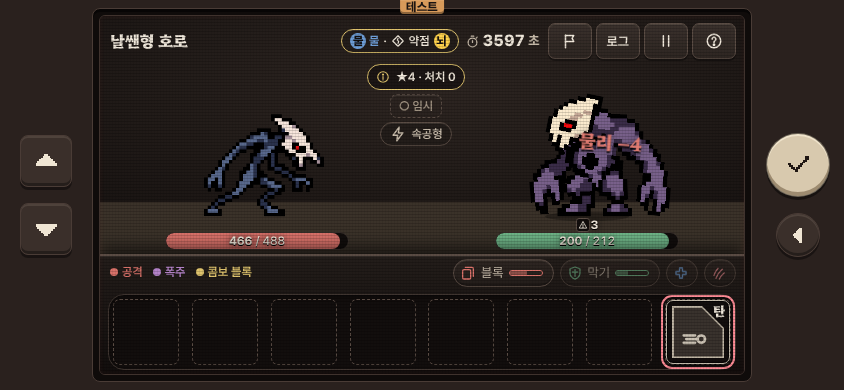
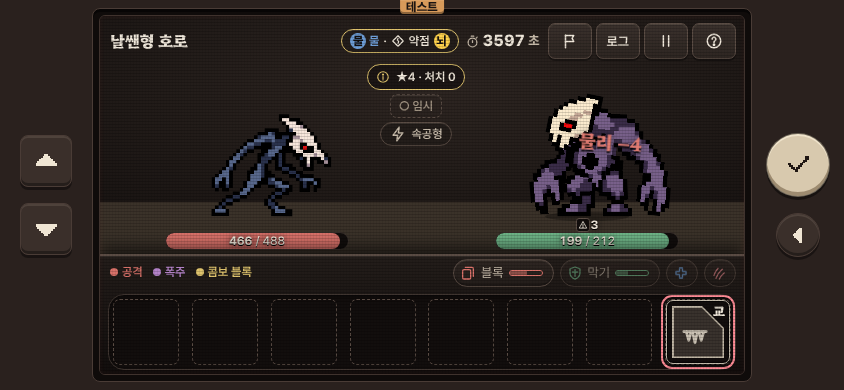
C.545 몸 이름 표 = GDD 6-7 v6.214 (덩치 = 호로, 날쌘형 임시), GDD v6.215
Claude-Session: https://claude.ai/code/session_01YVaigHzqbcLa5vuScdy85Q

diff --git a/tests/c545.test.ts b/tests/c545.test.ts
@@ -1,4 +1,4 @@
-// C.545 일반 적 이름 = 그림 모델(몸) 이름 + 호로, 도감에서만 '<몸>형 호로(속성 속성)' (GDD 6-7 v6.212 → v6.213,
+// C.545 일반 적 이름 = 그림 모델(몸) 이름 + 호로(덩치 = 그냥 호로), 도감에서만 '<이름>(속성 속성)' (GDD 6-7 v6.212·v6.214 → v6.215,
 // 사용자 2026-11-27 "속공, 기본 이런건 빼;; 그 모델에 따라서, 거미형 호로, 부유형 호로 이런식으로 이름붙여. 적들.")
 import { readFileSync } from 'node:fs';
 import { describe, expect, it } from 'vitest';
@@ -15,6 +15,8 @@ const read = (p: string) => readFileSync(new URL(`../${p}`, import.meta.url), 'u
 const normals = ENEMIES.filter((e) => e.class === 'normal' && !e.testOnly);
 const PATTERN_WORDS = /기본|속공|단단/;
 const bodyName = (id: string) => ENEMY_BODIES.names[normalEnemyBody(getEnemy(id)) ?? ''];
+/** 기대 이름: 몸 이름 + 호로, 몸 이름이 비면(덩치) 그냥 호로 */
+const expectName = (id: string) => (bodyName(id) ? `${bodyName(id)} 호로` : '호로');
 
 /** 그림 쪽에서 본 몸: 종이인형 외형 id 앞머리(brute-blue → brute), 종이인형이 아니면 한 장 그림 = lean */
 function artBody(id: string): string | null {
@@ -24,13 +26,13 @@ function artBody(id: string): string | null {
 }
 
 describe('일반 적 24종 이름 = 몸 이름 + 호로 (그림과 같은 출처)', () => {
-  it('24종(속성 8 × 패턴 3), 모든 종족에서 이름 = \'<몸>형 호로\', 패턴 글자 없음', () => {
+  it('24종(속성 8 × 패턴 3), 모든 종족에서 이름 = 몸 이름 + 호로(덩치 = 호로), 패턴 글자 없음', () => {
     expect(normals).toHaveLength(24);
     for (const el of ELEMENT_IDS) for (const p of ['basic', 'swift', 'sturdy']) expect(normals.some((e) => e.id === `${el}-${p}`), `${el}-${p}`).toBe(true);
     for (const f of FACTIONS) for (const e of normals) {
       const n = pickFaction(e.name, f.id);
-      expect(n, `${f.id} ${e.id}`).toBe(`${bodyName(e.id)} 호로`);
-      expect(n).toMatch(/^\S+형 호로$/);
+      expect(n, `${f.id} ${e.id}`).toBe(expectName(e.id));
+      expect(n).toMatch(/^(\S+형 )?호로$/);
       expect(n).not.toMatch(PATTERN_WORDS);
     }
   });
@@ -46,11 +48,13 @@ describe('일반 적 24종 이름 = 몸 이름 + 호로 (그림과 같은 출처
     expect(read('src/data/art/manifest.ts')).toMatch(/import enemyBodies from '\.\.\/enemies\/bodies\.json'/);
   });
 
-  it('지금 표: 기본·단단 = 덩치형 호로, 속공 = 날쌘형 호로 · 몸 이름은 모두 \'~형\'', () => {
-    expect(getEnemy('water-basic').name['*']).toBe('덩치형 호로');
-    expect(getEnemy('water-sturdy').name['*']).toBe('덩치형 호로');
+  it('지금 표(6-7 v6.214): 기본·단단 = 덩치 → 호로, 속공 = 날쌘형 호로 · 몸 이름 = 6-7 표 · 앞말은 빈 글자이거나 \'~형\'', () => {
+    expect(getEnemy('water-basic').name['*']).toBe('호로');
+    expect(getEnemy('water-sturdy').name['*']).toBe('호로');
     expect(getEnemy('water-swift').name['*']).toBe('날쌘형 호로');
-    for (const n of Object.values(ENEMY_BODIES.names)) expect(n).toMatch(/형$/);
+    expect(ENEMY_BODIES.names).toMatchObject({ brute: '', onearm: '괴력형', speed: '속공형', spiky: '강습형', serpent: '뱀형', beast: '짐승형', spider: '거미형', wraith: '부유형' });
+    for (const n of Object.values(ENEMY_BODIES.names)) expect(n).toMatch(/^$|형$/);
+    expect(ENEMY_BODIES.provisional).toEqual(['brute', 'lean']);
   });
 
   it('강적·보스·훈련 인형·테스트 적 이름은 그대로', () => {
@@ -61,20 +65,20 @@ describe('일반 적 24종 이름 = 몸 이름 + 호로 (그림과 같은 출처
   });
 });
 
-describe('도감 표기 = <몸>형 호로(속성 속성)', () => {
+describe('도감 표기 = <이름>(속성 속성)', () => {
   it('규칙 데이터에 패턴 자리 없음', () => {
     expect(ENEMY_DEX_NAMES.normal.format).toBe('{name}({element} 속성)');
     expect(read('src/data/enemies/dexNames.json')).not.toMatch(/patterns|\{pattern\}/);
   });
 
-  it('24종 모두 \'<몸>형 호로(<속성 표시 이름> 속성)\', 패턴 글자 없음 — 쿄는 허무', () => {
+  it('24종 모두 \'<이름>(<속성 표시 이름> 속성)\', 패턴 글자 없음 — 쿄는 허무', () => {
     for (const f of FACTIONS) for (const e of normals) {
       const d = enemyDexName(e, f.id);
-      expect(d, e.id).toBe(`${bodyName(e.id)} 호로(${elementName(e.element, f.id)} 속성)`);
+      expect(d, e.id).toBe(`${expectName(e.id)}(${elementName(e.element, f.id)} 속성)`);
       expect(d).not.toMatch(PATTERN_WORDS);
     }
     expect(enemyDexName(getEnemy('water-swift'), 'hollow')).toBe('날쌘형 호로(물 속성)');
-    expect(enemyDexName(getEnemy('kyo-basic'), 'shinigami')).toBe(`덩치형 호로(${elementName('kyo', 'shinigami')} 속성)`);
+    expect(enemyDexName(getEnemy('kyo-basic'), 'shinigami')).toBe(`호로(${elementName('kyo', 'shinigami')} 속성)`);
   });
 
   it('강적·보스 도감 이름 = 이름 그대로', () => {
@@ -84,7 +88,7 @@ describe('도감 표기 = <몸>형 호로(속성 속성)', () => {
   it('적 고르기 목록(수련장·테스트 모드) = 도감 표기, 훈련 인형·강적은 그대로', () => {
     const f = FACTIONS[0]!;
     const dex = { 'water-basic': { seen: 1, kills: 1, absorbs: { both: 0, trait: 0, stat: 0, none: 0 }, where: null, firstAt: 1 }, 'water-swift': { seen: 1, kills: 0, absorbs: { both: 0, trait: 0, stat: 0, none: 0 }, where: null, firstAt: 1 } };
-    expect(practiceArenaSource(f, dex, 3, false).foes.map((x) => x.label)).toEqual(['훈련 인형', '덩치형 호로(물 속성)', '날쌘형 호로(물 속성)']);
+    expect(practiceArenaSource(f, dex, 3, false).foes.map((x) => x.label)).toEqual(['훈련 인형', '호로(물 속성)', '날쌘형 호로(물 속성)']);
     const labels = testArenaSource(f, { foeId: '', star: 1, streak: 0, floor: null, hpAttacks: null, attackAttacks: null, attackSeconds: null, attacks: true, immortal: false }).foes.map((x) => x.label);
     expect(labels).toContain('날쌘형 호로(불 속성)');
     expect(labels).toContain('만 명을 먹은 자');

diff --git a/src/data/enemies/index.ts b/src/data/enemies/index.ts
@@ -75,9 +75,11 @@ export function parseEnemy(r: unknown): EnemyDef {
   return r as EnemyDef;
 }
 
-/** 일반 적 몸(모델) 표 (GDD 6-7 v6.212): 몸 id → 표시 이름('~형'), 일반 적 패턴 → 몸. 그림 목록(art/manifest.ts)도 이 표를 읽는다 — 이름과 그림이 한 곳에서 나온다 */
+/** 일반 적 몸(모델) 표 (GDD 6-7 v6.212): 몸 id → 이름 앞말(6-7 표, 빈 글자 = 앞말 없음), 일반 적 패턴 → 몸. 그림 목록(art/manifest.ts)도 이 표를 읽는다 — 이름과 그림이 한 곳에서 나온다 */
 export interface EnemyBodyTable {
   names: Record<string, string>;
+  /** 임시 이름인 몸 id (6-7 임시) */
+  provisional?: string[];
   normal: { nameFormat: string; byPattern: Partial<Record<EnemyPatternKind, string>> };
 }
 export const ENEMY_BODIES = bodiesRaw as EnemyBodyTable;
@@ -94,13 +96,14 @@ export function normalEnemyBody(def: Pick<EnemyDef, 'id' | 'class' | 'testOnly' 
   return ENEMY_BODIES.normal.byPattern[def.pattern?.kind ?? 'basic'] ?? null;
 }
 
-/** 일반 적 이름 = 몸 이름 + 적 테이블 이름(호로) — '덩치형 호로'. 전투·결과·로그·흡수·도감 모두 이 이름 */
+/** 일반 적 이름 = 몸 이름 + 적 테이블 이름(호로) — '날쌘형 호로', 덩치는 앞말 없이 '호로'. 전투·결과·로그·흡수·도감 모두 이 이름 */
 function withBodyName(def: EnemyDef): EnemyDef {
   if (!followsBodyTable(def)) return def;
   const body = normalEnemyBody(def);
   const bodyName = body ? ENEMY_BODIES.names[body] : undefined;
-  if (!bodyName) throw new Error(`적 데이터 오류 (${def.id}): 몸 표(bodies.json)에 몸 이름 없음`);
-  const name = Object.fromEntries(Object.entries(def.name).map(([k, v]) => [k, ENEMY_BODIES.normal.nameFormat.replace('{body}', bodyName).replace('{name}', String(v))]));
+  if (bodyName === undefined) throw new Error(`적 데이터 오류 (${def.id}): 몸 표(bodies.json)에 몸 이름 없음`);
+  // 몸 이름이 빈 글자(덩치 = 기본 모델, 6-7 v6.214)면 앞말 없이 적 테이블 이름 그대로
+  const name = Object.fromEntries(Object.entries(def.name).map(([k, v]) => [k, bodyName ? ENEMY_BODIES.normal.nameFormat.replace('{body}', bodyName).replace('{name}', String(v)) : String(v)]));
   return { ...def, name: name as EnemyDef['name'] };
 }
 
@@ -118,8 +121,8 @@ export function getEnemy(id: string): EnemyDef {
 /** 적 도감 표기 규칙 (GDD 6-7 v6.212): 일반 적만 '이름(속성 속성)' — 데이터 dexNames.json */
 export const ENEMY_DEX_NAMES = dexNamesRaw as { normal: { format: string } };
 
-/** 도감에 쓰는 이름 (GDD 6-7 v6.212): 일반 적 = '덩치형 호로(물 속성)' 처럼 속성을 붙이고(패턴 이름은 안 씀), 강적·보스·테스트 적·훈련 인형은 이름 그대로.
- *  도감 밖(전투·결과·로그·흡수)은 이 함수를 쓰지 않고 이름 그대로('덩치형 호로') — 적을 고르는 목록(수련장·테스트 모드 적 설정 창)은 도감 표기 */
+/** 도감에 쓰는 이름 (GDD 6-7 v6.212): 일반 적 = '날쌘형 호로(물 속성)'·'호로(물 속성)' 처럼 속성을 붙이고(패턴 이름은 안 씀), 강적·보스·테스트 적·훈련 인형은 이름 그대로.
+ *  도감 밖(전투·결과·로그·흡수)은 이 함수를 쓰지 않고 이름 그대로('날쌘형 호로'·'호로') — 적을 고르는 목록(수련장·테스트 모드 적 설정 창)은 도감 표기 */
 export function enemyDexName(def: Pick<EnemyDef, 'id' | 'name' | 'element' | 'class' | 'testOnly'>, factionId: string): string {
   const name = pickFaction(def.name, factionId);
   if (!followsBodyTable(def)) return name;

diff --git a/src/ui/enemyDexView.ts b/src/ui/enemyDexView.ts
@@ -1,5 +1,5 @@
 // 적 도감 화면 (GDD 200장, C.330 → 220장 1·2): 책장 묶음(진화체 도감·칭호 도감 ▾)의 세 번째 도감. 틀은 진화체 도감과 같다 — 바둑판 카드(그림·이름·속성) + 누르면 상세 창, 위 '발견 n / 전체'·정렬 버튼.
-// 카드 = 일반(속성 8 × 패턴 3 — 이름은 그림 몸 이름 + 호로(enemies/bodies.json), 도감에서만 enemyDexName 으로 '덩치형 호로(물 속성)', GDD 6-7 v6.212) · 강적 24 · 보스 3(탑 층 보스도 같은 보스라 같은 칸). 만나기 전 = 그림 실루엣 + '???'(속성·등급 숨김),
+// 카드 = 일반(속성 8 × 패턴 3 — 이름은 그림 몸 이름 + 호로(enemies/bodies.json), 도감에서만 enemyDexName 으로 '호로(물 속성)'·'날쌘형 호로(물 속성)', GDD 6-7 v6.212·v6.214) · 강적 24 · 보스 3(탑 층 보스도 같은 보스라 같은 칸). 만나기 전 = 그림 실루엣 + '???'(속성·등급 숨김),
 // 만난 뒤 = 그림 · 이름 · 속성 · 강적·보스 등급(198장 grade — 여기서만 보인다) · 잡은 수 'n마리' · 흡수 종류별 횟수(200장 9, 0도 자리 고정) · 처음 만난 곳 한 줄. 처음 만난 카드는 '새' 점 하나(알림 없음), 상세를 보면 지운다.
 // 종족 분기 없음: 이름·속성 이름·사냥터/탑 이름은 종족 설정·데이터에서 읽는다. 기기 ▲▼ = 카드 이동, ✓ = 상세 창, ◀ = 창 닫기(공용 창 레이어).
 import { ELEMENT_IDS } from '../data/elements';

diff --git a/tests/enemies.test.ts b/tests/enemies.test.ts
@@ -60,10 +60,10 @@ describe('적 데이터 (속성 8종 × 일반 3종 · 강적 3종, C.47)', () =
     expect(new Set(ENEMIES.map((e) => e.id)).size).toBe(ENEMIES.length);
   });
 
-  it('이름 (GDD 198장 → 6-7 v6.212): 일반 = \'<몸>형 호로\'(몸 표 bodies.json, 6-7 v6.212 — c545), 강적 = 24종 모두 고유 + 고정 등급, 모든 종족에서 읽힌다', () => {
+  it('이름 (GDD 198장 → 6-7 v6.212): 일반 = \'<몸>형 호로\'(몸 표 bodies.json, 6-7 v6.214, 덩치 = 호로 — c545), 강적 = 24종 모두 고유 + 고정 등급, 모든 종족에서 읽힌다', () => {
     for (const e of pool) expect(typeof e.name['*'], e.id).toBe('string');
     for (const e of pool.filter((x) => x.class === 'normal')) {
-      expect(e.name['*'], e.id).toBe(`${ENEMY_BODIES.names[normalEnemyBody(e) ?? '']} 호로`);
+      expect(e.name['*'], e.id).toBe(ENEMY_BODIES.names[normalEnemyBody(e) ?? ''] ? `${ENEMY_BODIES.names[normalEnemyBody(e) ?? '']} 호로` : '호로');
       expect(e.grade, e.id).toBeUndefined();
     }
     const elites = pool.filter((x) => x.class === 'elite');

diff --git a/docs/dev-log.md b/docs/dev-log.md
@@ -1338,14 +1338,14 @@ BALANCE 168 → **169**(소로 수치, 전부 provisional). 세이브 형식 그
 - 캡처 `docs/captures/c544/`(1배 3장, `scripts/c544-proof.cjs`, facts.json): 01 PC 전투(물 속성·기본 적) 이름 '호로' · 02 PC 적 도감 호로(노멀/물/불/허무 속성·기본/속공/단단) · 03 폰 적 도감.
 - 검증: typecheck · 관련 테스트(enemies·c330·c332·c363 등) · 새 테스트 · typecheck · npm test 4442 · balance:check 회귀 가드 통과(수치 안 바뀜) · build.
 
-## C.545 — 일반 적 이름 = 그림 몸 이름 + 호로, 도감 '<몸>형 호로(속성 속성)' (GDD 6-7 v6.212 → v6.213, S-23, 코딩353)
-세이브 형식·BALANCE 그대로(세이브엔 적 id 만). GDD v6.213(첫 줄 + 20절 한 줄). C.544('호로' + 도감 패턴 글자)를 고침.
-- **이유**: 사용자 2026-11-27(C.544 본 뒤) "속공, 기본 이런건 빼;; 그 모델에 따라서, 거미형 호로, 부유형 호로 이런식으로 이름붙여. 적들." → 마스터AT 6-7 v6.212.
-- **몸 표 한 곳**: 새 `src/data/enemies/bodies.json` = 몸 id → 이름(15절 '~형': 덩치형·날쌘형·뱀형·짐승형·외팔형·거미형·가시형·속도형·부유형·길리안형) + 일반 적 패턴 → 몸(basic·sturdy = brute 덩치, swift = lean 날쌘형 한 장 그림) + 이름 형식 `{body} {name}`. `enemies/index.ts` 가 읽을 때 일반 적 24종 이름을 '덩치형 호로'·'날쌘형 호로'로 만든다(enemies.json 이름은 '호로' 그대로) → 전투·결과·로그·흡수·도감 모두 같은 이름.
+## C.545 — 일반 적 이름 = 그림 몸 이름 + 호로(덩치 = 호로), 도감 '<이름>(속성 속성)' (GDD 6-7 v6.212·v6.214 → v6.215, S-23, 코딩353)
+세이브 형식·BALANCE 그대로(세이브엔 적 id 만). GDD v6.215(첫 줄 + 20절 한 줄). C.544('호로' + 도감 패턴 글자)를 고침.
+- **이유**: 사용자 2026-11-27(C.544 본 뒤) "속공, 기본 이런건 빼;; 그 모델에 따라서, 거미형 호로, 부유형 호로 이런식으로 이름붙여. 적들." · "도마뱀->속공형, 외팔이->괴력형, 가시->강습형으로 이름 바꾸삼" → 마스터AT 6-7 v6.212·v6.214.
+- **몸 표 한 곳**: 새 `src/data/enemies/bodies.json` = 몸 id → 이름 앞말(6-7 표: brute 덩치 = 빈 글자(그냥 '호로', 임시) · onearm 괴력형 · speed 속공형 · spiky 강습형 · serpent 뱀형 · beast 짐승형 · spider 거미형 · wraith 부유형 · lean 날쌘형(임시)) + 일반 적 패턴 → 몸(basic·sturdy = brute, swift = lean) + 형식 `{body} {name}`. `enemies/index.ts` 가 읽을 때 일반 적 24종 이름을 만든다(enemies.json 이름은 '호로' 그대로) → 전투·결과·로그·흡수·도감 모두 같은 이름.
 - **그림과 같은 출처**: `art/manifest.ts` `BRUTE_ENEMY_KINDS`(덩치 종이인형을 입는 적 종류)를 몸 표에서 몸 brute 인 일반 패턴 + 강적 3 으로 만든다. 표의 몸을 바꾸면 이름과 그림이 같이 바뀐다(brute ↔ lean). 시험이 24종 모두 '표의 몸 = 실제 그림(종이인형 외형 앞머리 / 한 장 그림 파일)'을 막는다.
 - **도감**: `dexNames.json` 형식 `{name}({element} 속성)` — 패턴 글자 없음. 적 고르기 목록(수련장·테스트 모드)도 도감 표기.
-- **겹치는 도감 이름(지시대로 그대로 둠)**: 속성마다 basic·sturdy 가 둘 다 덩치형 → '덩치형 호로(노멀/물/불/흙/뇌/혈/독/허무 속성)' 8쌍(16종). 날쌘형은 겹침 없음.
-- **이렇게 정함**: 덩치 몸 이름 = '덩치형'(15-3 '몸·몬스터 이름은 ~형으로 통일' + 몸 이름 '덩치'), 한 장 그림 속공 몸 = '날쌘형'(15-5 기존 용어).
-- **테스트**: 새 `tests/c545.test.ts` 10건(24종 이름 = 몸형 호로·패턴 글자 없음 / 표의 몸 = 그림 / 덩치 종류 = 표 / 지금 표 / 강적·인형·테스트 적 그대로 / 도감 형식 데이터 / 24종 도감 형식 / 강적·보스 그대로 / 고르기 목록 / 도감만·종족 분기 없음). `tests/c544.test.ts` 는 규칙이 바뀌어 지움(c545 가 대신). `tests/enemies.test.ts` 기대값 = 몸 표.
-- 캡처 `docs/captures/c545/`(1배 3장, `scripts/c545-proof.cjs`, facts.json): 01 PC 전투 '날쌘형 호로'(물 속공) · 02 PC 적 도감 덩치형·날쌘형 호로(노멀/물/불/허무 속성) · 03 폰 적 도감.
+- **겹치는 도감 이름(지시대로 그대로 둠)**: 속성마다 basic·sturdy 가 둘 다 덩치 → '호로(노멀/물/불/흙/뇌/혈/독/허무 속성)' 8쌍(16종). 날쌘형은 겹침 없음.
+- **이렇게 정함(임시)**: 속공 적(swift)은 덩치·속도형 종이인형이 아니라 한 장 그림(마른 몸, `enemy-<속성>-swift.png`)이고 6-7 표에 없어서, 15-5 기존 용어 '날쌘형'을 임시 이름으로(bodies.json provisional). 지금 일반 적 24종 중 6-7 표의 괴력형·속공형·강습형·뱀형·짐승형·거미형·부유형 몸을 입은 적은 없다(강적만 — 강적 이름은 고유 이름 그대로).
+- **테스트**: 새 `tests/c545.test.ts` 10건(24종 이름 = 몸 이름 + 호로·패턴 글자 없음 / 표의 몸 = 그림 / 덩치 종류 = 표 / 지금 표 = 6-7 / 강적·인형·테스트 적 그대로 / 도감 형식 데이터 / 24종 도감 형식 / 강적·보스 그대로 / 고르기 목록 / 도감만·종족 분기 없음). `tests/c544.test.ts` 는 규칙이 바뀌어 지움(c545 가 대신). `tests/enemies.test.ts` 기대값 = 몸 표.
+- 캡처 `docs/captures/c545/`(1배 3장, `scripts/c545-proof.cjs`, facts.json): 01 PC 전투 '날쌘형 호로'(물 속공) · 02 PC 적 도감 호로·날쌘형 호로(노멀/물/불/허무 속성) · 03 폰 적 도감.
 - 검증: typecheck · 관련 테스트(enemies·c348-size·c330·c332·c363) · 새 테스트 · npm test 4444 · balance:check 회귀 가드 통과(수치 안 바뀜) · build.
